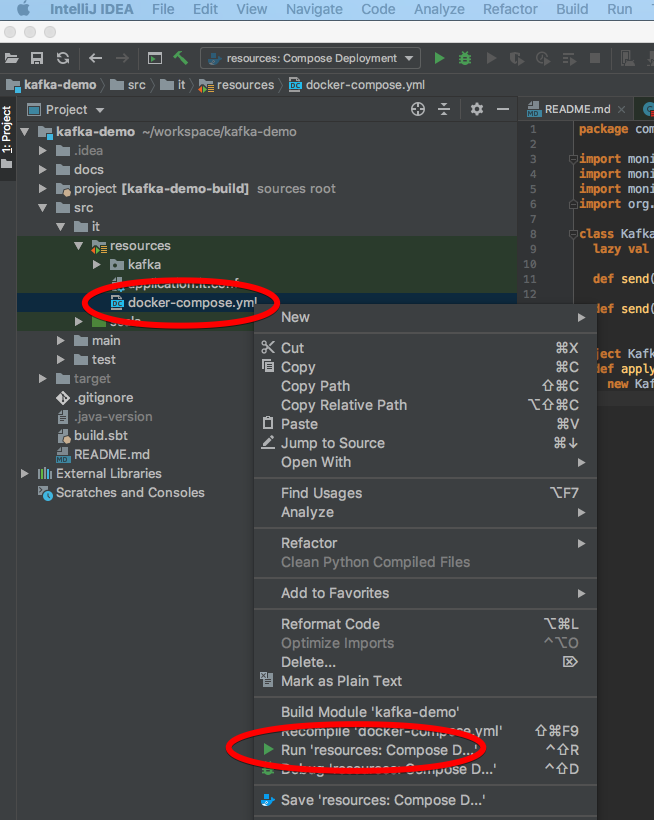
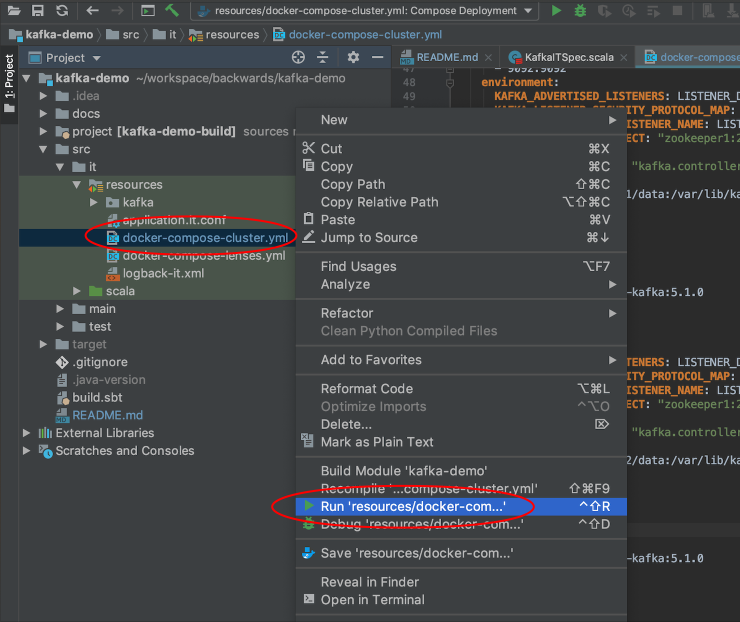
Documentation

Changed region(s): [[0.0, 0.0, 1.0, 1.0]]

diff --git a/docs/commands.md b/docs/commands.md
@@ -1,41 +1,13 @@
 # Commands
 
-## Prerequisites
-
-If you don't have [Homebrew](https://brew.sh) on your Mac then first run the following:
-
-```bash
-$ /usr/bin/ruby -e "$(curl -fsSL https://raw.githubusercontent.com/Homebrew/install/master/install)"
-```
-
-You will need Java installed:
-
-```bash
-$ brew cask install java
-```
-
-And now install Kafka, which will include Zookeeper:
-
-```bash
-$ brew install kafka
-```
-
-Note that Zookeeper and Kafka can be booted with the following commands, though we won't need these since we have a **docker-compose** file to boot clusters including access to a UI via a REST service.
-
-```bash
-$ zookeeper-server-start /usr/local/etc/kafka/zookeeper.properties
-
-$ kafka-server-start /usr/local/etc/kafka/server.properties
-```
-
-## Boot Zookeeper and Kafka Clusters with Docker Compose
+## Boot Zookeeper and Kafka Cluster with Docker Compose
 
 We can boot Kafka (and other configured services) with **Docker Compose**. Under the directory [src/it/resources](src/it/resources) are several docker compose files.
 
-Navigate to the [docker-compose file](src/it/resources/docker-compose.yml) and run the default:
+Navigate to the [Docker Compose Cluster file](src/it/resources/docker-compose-cluster.yml) and run the default:
 
 ```bash
-$ docker-compose up
+$ docker-compose -f docker-compose-cluster.yml up
 ```
 
 Or if you have the project open in [IntelliJ](https://www.jetbrains.com/idea/) right click the file and select run (convenient to view logs, environment variables etc):
@@ -94,6 +66,8 @@ Topic:topic-1	PartitionCount:1	ReplicationFactor:1	Configs:
 	Topic: topic-1	Partition: 0	Leader: 101	Replicas: 101	Isr: 101
 ```
 
+Where **Replicas** shows a list of the brokers (the **client ID**) for the topic, and the **Leader** shows the **client ID** of the broker that is the acting leader i.e. which broker/partition is handling writes and reads to said topic.
+
 ## Produce Messages
 
 ```bash
@@ -124,12 +98,12 @@ $ kafka-topics --zookeeper localhost:2181 --create --topic mockaroo --partitions
 Created topic "mockaroo".
 ```
 
-We are going to get ready made mock data from [Mockaroo](https://mockaroo.com) and pipe it into **kafka-console-producer**. Mockaroo generates mock datasets (and we can stipulate how many records we desire up to 1000). We run the following script which loops forever.
+We are going to get ready made mock data from [Mockaroo](https://mockaroo.com) and pipe it into **kafka-console-producer**. Mockaroo generates mock datasets (and we can stipulate how many records we desire up to 1000). We run the following script which loops forever, by providing the name of the topic where the automatically generated data is published.
 
 Within [it/resources/kafka](it/resources/kafka):
 
 ```bash
-$ ./mockaroo.sh
+$ ./mockaroo.sh mockaroo
   % Total    % Received % Xferd  Average Speed   Time    Time     Time  Current
                                  Dload  Upload   Total   Spent    Left  Speed
 100    67    0    67    0     0     91      0 --:--:-- --:--:-- --:--:--    91

diff --git a/docs/setup.md b/docs/setup.md
@@ -1,0 +1,75 @@
+# Setup
+
+The following setup is for a **local** environment. I'll eventually add sections for AWS and GCP.
+
+We can have Kafka up and running in two different ways.
+
+- Install Kafka and run
+- Use Docker
+
+(I'll eventually include a third way with Kubernetes by using Minikube).
+
+## Install Kafka
+
+The following installations are really just to have Kafka CLI tools available to interact with Kafka from the command line. Once installed we can also run Kafka, but throughout the demo we shall actually run Kafka with the help of Docker.
+
+If you don't have [Homebrew](https://brew.sh) on your Mac then first run the following:
+
+```bash
+$ /usr/bin/ruby -e "$(curl -fsSL https://raw.githubusercontent.com/Homebrew/install/master/install)"
+```
+
+First install Java:
+
+```bash
+$ brew cask install java
+```
+
+And now install Kafka, which will include Zookeeper:
+
+```bash
+$ brew install kafka
+```
+
+Zookeeper and Kafka can be booted with the following commands:
+
+```bash
+$ zookeeper-server-start /usr/local/etc/kafka/zookeeper.properties
+
+$ kafka-server-start /usr/local/etc/kafka/server.properties
+```
+
+## Docker
+
+To run Kafka using Docker… we'll need Docker installed! And Docker Compose.
+
+```bash
+$ brew cask install virtualbox
+
+$ brew cask install docker
+
+$ brew install docker-compose
+```
+
+Note that since Docker only runs natively on a Linux environment, we need an extra piece of software in our Mac environment named [VirtualBox](https://www.virtualbox.org/).
+
+There is also a Mac Desktop version of Docker which can be installed from:
+
+[https://docs.docker.com/docker-for-mac/install/](https://docs.docker.com/docker-for-mac/install/).
+
+As of writing, there are two **Docker Compose** files which can be given to Docker to run Kafka for us. These files reside under the directory [src/it/resources](../src/it/resources):
+
+- [docker-compose-cluster.yml](../src/it/resources/docker-compose-cluster.yml) - Runs a Kafka cluster with a simple UI from [Landoop](https://www.landoop.com/).
+- [docker-compose-lenses.yml](../src/it/resources/docker-compose-lenses.yml) - Runs a single instance of Kafka with a powerful UI from [Landoop](https://www.landoop.com/).
+
+Using Docker Compose we can have Kafka up and running with either of the following commands:
+
+```bash
+$ docker-compose -f docker-compose-cluster.yml up
+```
+
+```bash
+$ docker-compose -f docker-compose-lenses.yml up
+```
+
+More about this in the section on [Commands](commands.md).

diff --git a/docs/architecture.md b/docs/architecture.md
@@ -1,2 +1,15 @@
 # Architecture
 
+## Topic
+
+A **topic** is a **distributed log file**, where distribution is achieved via **partitions**.
+
+## Partition
+
+Each **partition** is a **file directory** named with the **topic** name and **partiton index**.
+
+## Replication Factor
+
+In a multinode cluster a **replication factor** is set to have multiple copies of each **partition** for **fault tolerance**.
+
+As there will be multiple brokers associated with each **partition** of a given **topic**, one of the brokers will be designated as the **leader**, and the rest are **followers**. Each **follower** can either be an **ISR (In Sync Replica)** or not.

diff --git a/README.md b/README.md
@@ -1,9 +1,22 @@
 # Kafka
 
-- [Introduction](docs/introduction.md)
-
+- [Kafka?](docs/about.md)
+  - Advantages/Disadvantages
+  - Alternatives
 - [Architecture](docs/architecture.md)
-
+  - Terminology
+  - Cluster
+  - Zookeeper
+  - Persistence/Commit logs aka Topics
+  - Partitions
+  - Replication
+- [Setup](docs/setup.md)
+  - Kafka tools
+  - Docker / Docker Compose
 - [Commands](docs/commands.md)
-
-- [SBT/Scala](docs/sbt.md)
+  - CLI
+- [Demo - Scala](docs/sbt.md)
+  - Kafka with Scala
+  - Protocols such as JSON and Avro
+  - Schemas
+  - Kafka Streams

diff --git a/docs/about.md b/docs/about.md
@@ -1,0 +1,7 @@
+## Kafka?
+
+Kafka low coupling high cohesion 2 important traits of coding ala type classes
+
+
+
+Pics of microservices with endpoints replaced with Kafka
